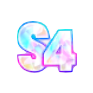
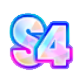
Add support for S4+ and S5 rank

diff --git a/gakumas-tools/components/TierList/ranks.js b/gakumas-tools/components/TierList/ranks.js
@@ -1,6 +1,8 @@
 // Available rank labels, ordered from highest to lowest. These map directly
 // to icons in /public/ranks/ and define the canonical display order for tiers.
 export const AVAILABLE_RANKS = [
+  "S5",
+  "S4+",
   "S4",
   "SSS+",
   "SSS",

diff --git a/gakumas-tools/utils/produceRank.js b/gakumas-tools/utils/produceRank.js
@@ -27,6 +27,8 @@ export const RATING_BY_PLACE = {
 };
 
 export const TARGET_RATING_BY_RANK = {
+  S5: 35000,
+  "S4+": 30000,
   S4: 26000,
   "SSS+": 23000,
   SSS: 20000,